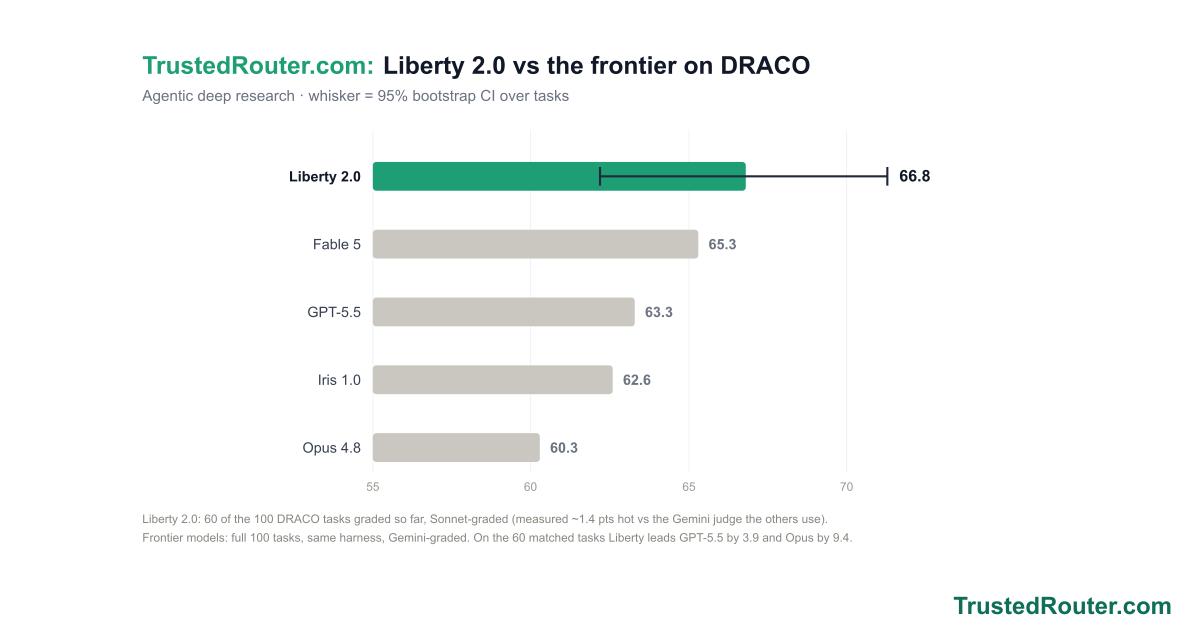
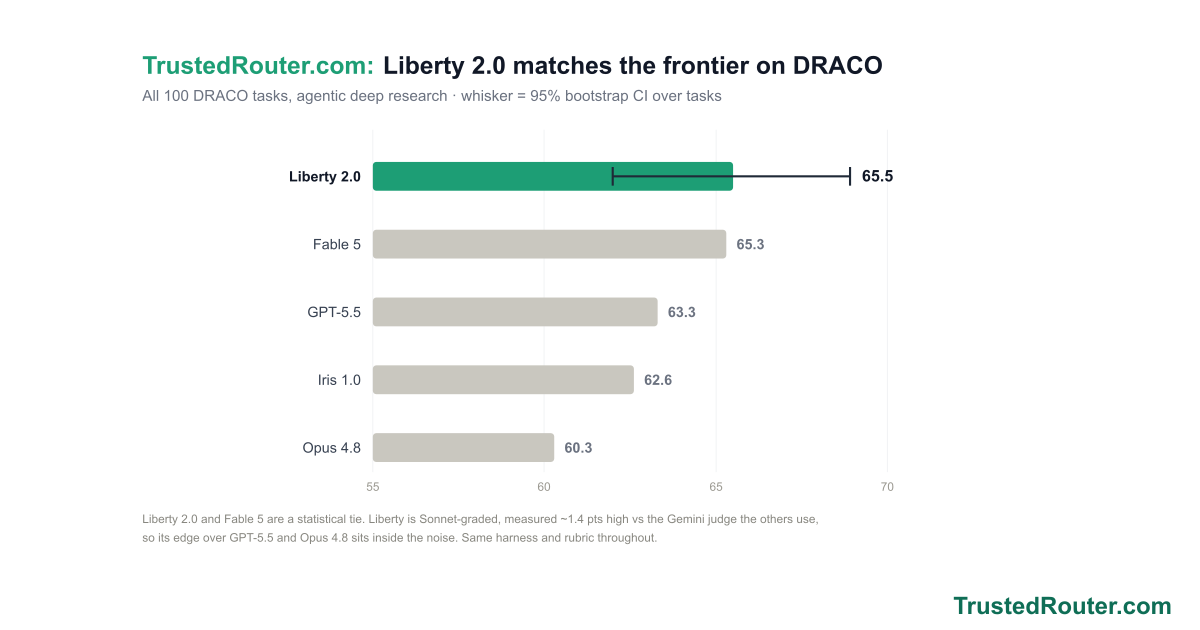
blog: Liberty 2.0 final DRACO result, all 100 tasks graded
65.5 [62.0, 68.9] with the full set graded. The score fell as the
Finance-heavy tail landed: 70.3 (20 tasks) -> 68.9 (52) -> 66.8 (60) ->
65.5 (100).

Claim corrected to match. Fable 5 scores 65.3, so it is a tie, not a
Liberty lead. GPT-5.5 63.3 and Opus 4.8 60.3 on the same tasks -- gaps of
2.2 and 5.2, smaller than the 3.9 and 9.4 published at 60 tasks, and
close enough to the measured +1.4 grader bias that the headline is now
"matches the frontier" rather than tops it. That is still the story worth
telling: an all-open-weights American model at frontier level, far cheaper.

Per-domain table rebuilt on all 100: wins 8 of 10, Medicine -3, Law even.

Methodology section extended with a second finding: regrading the same
answer can swing a task by 40+ points, because 7 of the 100 rubrics carry
one heavily weighted penalty (up to -500 against 133 positive), mostly in
medicine. Aggregates absorb it; six-task rows do not, and the post now
says so.

Chart and OG regenerated at 65.5 and visually verified.

diff --git a/src/trusted_router/content/blog.py b/src/trusted_router/content/blog.py
@@ -196,59 +196,60 @@ uv run --script tools/verify-attestation.py \
 <figure style="margin:0 0 32px">
 <svg xmlns="http://www.w3.org/2000/svg" viewBox="0 0 1200 630" width="100%" style="height:auto" font-family="Inter,Arial,sans-serif">
 <rect width="1200" height="630" fill="#ffffff"/>
-<text x="60" y="54" font-size="29" font-weight="700"><tspan fill="#1d9e75">TrustedRouter.com:</tspan><tspan fill="#111827" dx="10">Liberty 2.0 vs the frontier on DRACO</tspan></text>
-<text x="60" y="86" font-size="18" fill="#6b7280">Agentic deep research &#183; whisker = 95% bootstrap CI over tasks</text>
+<text x="60" y="54" font-size="29" font-weight="700"><tspan fill="#1d9e75">TrustedRouter.com:</tspan><tspan fill="#111827" dx="10">Liberty 2.0 matches the frontier on DRACO</tspan></text>
+<text x="60" y="86" font-size="18" fill="#6b7280">All 100 DRACO tasks, agentic deep research &#183; whisker = 95% bootstrap CI over tasks</text>
 <line x1="332" y1="120" x2="332" y2="524" stroke="#eef0f2"/>
 <text x="332" y="546" font-size="14" text-anchor="middle" fill="#9a9890">55</text>
-<line x1="518" y1="120" x2="518" y2="524" stroke="#eef0f2"/>
-<text x="518" y="546" font-size="14" text-anchor="middle" fill="#9a9890">60</text>
-<line x1="705" y1="120" x2="705" y2="524" stroke="#eef0f2"/>
-<text x="705" y="546" font-size="14" text-anchor="middle" fill="#9a9890">65</text>
-<line x1="891" y1="120" x2="891" y2="524" stroke="#eef0f2"/>
-<text x="891" y="546" font-size="14" text-anchor="middle" fill="#9a9890">70</text>
-<rect x="332" y="158" width="440" height="34" rx="4" fill="#1d9e75"/>
+<line x1="534" y1="120" x2="534" y2="524" stroke="#eef0f2"/>
+<text x="534" y="546" font-size="14" text-anchor="middle" fill="#9a9890">60</text>
+<line x1="737" y1="120" x2="737" y2="524" stroke="#eef0f2"/>
+<text x="737" y="546" font-size="14" text-anchor="middle" fill="#9a9890">65</text>
+<line x1="939" y1="120" x2="939" y2="524" stroke="#eef0f2"/>
+<text x="939" y="546" font-size="14" text-anchor="middle" fill="#9a9890">70</text>
+<rect x="332" y="158" width="425" height="34" rx="4" fill="#1d9e75"/>
 <text x="318" y="181" font-size="17" font-weight="700" text-anchor="end" fill="#111827">Liberty 2.0</text>
-<line x1="600" y1="175" x2="939" y2="175" stroke="#1f2937" stroke-width="2.5"/>
-<line x1="600" y1="164" x2="600" y2="186" stroke="#1f2937" stroke-width="2.5"/>
-<line x1="939" y1="164" x2="939" y2="186" stroke="#1f2937" stroke-width="2.5"/>
-<text x="953" y="181" font-size="19" font-weight="700" fill="#111827">66.8</text>
-<rect x="332" y="238" width="384" height="34" rx="4" fill="#c9c7bf"/>
+<line x1="615" y1="175" x2="895" y2="175" stroke="#1f2937" stroke-width="2.5"/>
+<line x1="615" y1="164" x2="615" y2="186" stroke="#1f2937" stroke-width="2.5"/>
+<line x1="895" y1="164" x2="895" y2="186" stroke="#1f2937" stroke-width="2.5"/>
+<text x="909" y="181" font-size="19" font-weight="700" fill="#111827">65.5</text>
+<rect x="332" y="238" width="417" height="34" rx="4" fill="#c9c7bf"/>
 <text x="318" y="261" font-size="17" font-weight="400" text-anchor="end" fill="#374151">Fable 5</text>
-<text x="728" y="261" font-size="17" font-weight="600" fill="#6b7280">65.3</text>
-<rect x="332" y="318" width="309" height="34" rx="4" fill="#c9c7bf"/>
+<text x="761" y="261" font-size="17" font-weight="600" fill="#6b7280">65.3</text>
+<rect x="332" y="318" width="336" height="34" rx="4" fill="#c9c7bf"/>
 <text x="318" y="341" font-size="17" font-weight="400" text-anchor="end" fill="#374151">GPT-5.5</text>
-<text x="653" y="341" font-size="17" font-weight="600" fill="#6b7280">63.3</text>
-<rect x="332" y="398" width="283" height="34" rx="4" fill="#c9c7bf"/>
+<text x="680" y="341" font-size="17" font-weight="600" fill="#6b7280">63.3</text>
+<rect x="332" y="398" width="308" height="34" rx="4" fill="#c9c7bf"/>
 <text x="318" y="421" font-size="17" font-weight="400" text-anchor="end" fill="#374151">Iris 1.0</text>
-<text x="627" y="421" font-size="17" font-weight="600" fill="#6b7280">62.6</text>
-<rect x="332" y="478" width="197" height="34" rx="4" fill="#c9c7bf"/>
+<text x="652" y="421" font-size="17" font-weight="600" fill="#6b7280">62.6</text>
+<rect x="332" y="478" width="214" height="34" rx="4" fill="#c9c7bf"/>
 <text x="318" y="501" font-size="17" font-weight="400" text-anchor="end" fill="#374151">Opus 4.8</text>
-<text x="541" y="501" font-size="17" font-weight="600" fill="#6b7280">60.3</text>
-<text x="60" y="584" font-size="14" fill="#888780">Liberty 2.0: 60 of the 100 DRACO tasks graded so far, Sonnet-graded (measured ~1.4 pts hot vs the Gemini judge the others use).</text>
-<text x="60" y="606" font-size="14" fill="#888780">Frontier models: full 100 tasks, same harness, Gemini-graded. On the 60 matched tasks Liberty leads GPT-5.5 by 3.9 and Opus by 9.4.</text>
+<text x="558" y="501" font-size="17" font-weight="600" fill="#6b7280">60.3</text>
+<text x="60" y="584" font-size="14" fill="#888780">Liberty 2.0 and Fable 5 are a statistical tie. Liberty is Sonnet-graded, measured ~1.4 pts high vs the Gemini judge the others use,</text>
+<text x="60" y="606" font-size="14" fill="#888780">so its edge over GPT-5.5 and Opus 4.8 sits inside the noise. Same harness and rubric throughout.</text>
 <text x="1140" y="624" text-anchor="end" font-size="18" font-weight="700" fill="#0f6e56">TrustedRouter.com</text></svg>
 </figure>
 <p>Today we're introducing Liberty 2.0 &#8212; one AI you call like any other model, built entirely from American open-source models and run only in the United States.</p>
-<p>On <a href="/blog/fusion-evals-open-source">DRACO</a>, the 100-task agentic deep-research benchmark, Liberty 2.0 scores <strong>66.8</strong> across the 60 tasks graded so far. On those same tasks it leads GPT-5.5 by 3.9 points and Claude Opus 4.8 by 9.4, and it sits level with Fable 5, the strongest single model in the comparison. An all-American, all-open-weights model, holding its own against the closed frontier on real research.</p>
+<p>On <a href="/blog/fusion-evals-open-source">DRACO</a>, the 100-task agentic deep-research benchmark, Liberty 2.0 scores <strong>65.5</strong> across all 100 tasks. Fable 5, the strongest single model in the comparison, scores 65.3 &#8212; a tie. GPT-5.5 scores 63.3 and Claude Opus 4.8 60.3 on the same tasks. An all-American, all-open-weights model performing at the level of the closed frontier, at a fraction of the cost.</p>
 <h3 style="font-size:22px;margin:36px 0 8px">Where Liberty 2.0 is strong, and where it trails</h3>
-<p>Broken out by task type, against the average of the two frontier solos on exactly the same tasks, Liberty 2.0 comes out ahead on 8 of the ten. Its margins are widest on research that means gathering many sources and reconciling them; it falls back to even on work that turns on exact recall.</p>
+<p>Broken out by task type, against the average of the two frontier solos on exactly the same tasks, Liberty 2.0 comes out ahead on 8 of the ten. The margins are widest on research that means gathering many sources and reconciling them, and it gives the lead back on work that turns on exact recall.</p>
 <div style="overflow-x:auto;margin:16px 0"><table style="border-collapse:collapse;font-size:15px;min-width:520px">
 <thead><tr><th style="text-align:left;padding:6px 12px;border-bottom:2px solid #d1d5db;font-size:14px">Task type</th><th style="text-align:right;padding:6px 12px;border-bottom:2px solid #d1d5db;font-size:14px">Tasks</th><th style="text-align:right;padding:6px 12px;border-bottom:2px solid #d1d5db;font-size:14px">Liberty 2.0</th><th style="text-align:right;padding:6px 12px;border-bottom:2px solid #d1d5db;font-size:14px">Frontier avg<br><span style="font-weight:400;color:#6b7280;font-size:12px">GPT-5.5 + Opus 4.8</span></th><th style="text-align:right;padding:6px 12px;border-bottom:2px solid #d1d5db;font-size:14px">&#916;</th></tr></thead><tbody>
-<tr><td style="text-align:left;padding:5px 12px;border-bottom:1px solid #eef0f2">Needle-in-Haystack</td><td style="text-align:right;padding:5px 12px;border-bottom:1px solid #eef0f2;color:#9a9890;font-size:13px">5</td><td style="text-align:right;padding:5px 12px;border-bottom:1px solid #eef0f2;background:#e1f5ee;font-weight:700">75</td><td style="text-align:right;padding:5px 12px;border-bottom:1px solid #eef0f2">58</td><td style="text-align:right;padding:5px 12px;border-bottom:1px solid #eef0f2;font-weight:700;color:#0f6e56">+17</td></tr>
-<tr><td style="text-align:left;padding:5px 12px;border-bottom:1px solid #eef0f2">Personalized Assistant</td><td style="text-align:right;padding:5px 12px;border-bottom:1px solid #eef0f2;color:#9a9890;font-size:13px">3</td><td style="text-align:right;padding:5px 12px;border-bottom:1px solid #eef0f2;background:#e1f5ee;font-weight:700">72</td><td style="text-align:right;padding:5px 12px;border-bottom:1px solid #eef0f2">59</td><td style="text-align:right;padding:5px 12px;border-bottom:1px solid #eef0f2;font-weight:700;color:#0f6e56">+13</td></tr>
-<tr><td style="text-align:left;padding:5px 12px;border-bottom:1px solid #eef0f2">Academic</td><td style="text-align:right;padding:5px 12px;border-bottom:1px solid #eef0f2;color:#9a9890;font-size:13px">6</td><td style="text-align:right;padding:5px 12px;border-bottom:1px solid #eef0f2;background:#e1f5ee;font-weight:700">86</td><td style="text-align:right;padding:5px 12px;border-bottom:1px solid #eef0f2">74</td><td style="text-align:right;padding:5px 12px;border-bottom:1px solid #eef0f2;font-weight:700;color:#0f6e56">+12</td></tr>
-<tr><td style="text-align:left;padding:5px 12px;border-bottom:1px solid #eef0f2">Shopping / Product</td><td style="text-align:right;padding:5px 12px;border-bottom:1px solid #eef0f2;color:#9a9890;font-size:13px">9</td><td style="text-align:right;padding:5px 12px;border-bottom:1px solid #eef0f2;background:#e1f5ee;font-weight:700">65</td><td style="text-align:right;padding:5px 12px;border-bottom:1px solid #eef0f2">55</td><td style="text-align:right;padding:5px 12px;border-bottom:1px solid #eef0f2;font-weight:700;color:#0f6e56">+10</td></tr>
-<tr><td style="text-align:left;padding:5px 12px;border-bottom:1px solid #eef0f2">Technology</td><td style="text-align:right;padding:5px 12px;border-bottom:1px solid #eef0f2;color:#9a9890;font-size:13px">7</td><td style="text-align:right;padding:5px 12px;border-bottom:1px solid #eef0f2;background:#e1f5ee;font-weight:700">60</td><td style="text-align:right;padding:5px 12px;border-bottom:1px solid #eef0f2">51</td><td style="text-align:right;padding:5px 12px;border-bottom:1px solid #eef0f2;font-weight:700;color:#0f6e56">+9</td></tr>
-<tr><td style="text-align:left;padding:5px 12px;border-bottom:1px solid #eef0f2">UX Design</td><td style="text-align:right;padding:5px 12px;border-bottom:1px solid #eef0f2;color:#9a9890;font-size:13px">5</td><td style="text-align:right;padding:5px 12px;border-bottom:1px solid #eef0f2;background:#e1f5ee;font-weight:700">63</td><td style="text-align:right;padding:5px 12px;border-bottom:1px solid #eef0f2">57</td><td style="text-align:right;padding:5px 12px;border-bottom:1px solid #eef0f2;font-weight:700;color:#0f6e56">+6</td></tr>
-<tr><td style="text-align:left;padding:5px 12px;border-bottom:1px solid #eef0f2">Law</td><td style="text-align:right;padding:5px 12px;border-bottom:1px solid #eef0f2;color:#9a9890;font-size:13px">3</td><td style="text-align:right;padding:5px 12px;border-bottom:1px solid #eef0f2;background:#e1f5ee;font-weight:700">86</td><td style="text-align:right;padding:5px 12px;border-bottom:1px solid #eef0f2">81</td><td style="text-align:right;padding:5px 12px;border-bottom:1px solid #eef0f2;font-weight:700;color:#0f6e56">+5</td></tr>
-<tr><td style="text-align:left;padding:5px 12px;border-bottom:1px solid #eef0f2">Finance</td><td style="text-align:right;padding:5px 12px;border-bottom:1px solid #eef0f2;color:#9a9890;font-size:13px">12</td><td style="text-align:right;padding:5px 12px;border-bottom:1px solid #eef0f2;background:#e1f5ee;font-weight:700">57</td><td style="text-align:right;padding:5px 12px;border-bottom:1px solid #eef0f2">55</td><td style="text-align:right;padding:5px 12px;border-bottom:1px solid #eef0f2;font-weight:700;color:#0f6e56">+2</td></tr>
-<tr><td style="text-align:left;padding:5px 12px;border-bottom:1px solid #eef0f2">General Knowledge</td><td style="text-align:right;padding:5px 12px;border-bottom:1px solid #eef0f2;color:#9a9890;font-size:13px">4</td><td style="text-align:right;padding:5px 12px;border-bottom:1px solid #eef0f2;background:#e1f5ee;font-weight:700">55</td><td style="text-align:right;padding:5px 12px;border-bottom:1px solid #eef0f2">56</td><td style="text-align:right;padding:5px 12px;border-bottom:1px solid #eef0f2;font-weight:700;color:#b91c1c">&#8722;1</td></tr>
-<tr><td style="text-align:left;padding:5px 12px;border-bottom:1px solid #eef0f2">Medicine</td><td style="text-align:right;padding:5px 12px;border-bottom:1px solid #eef0f2;color:#9a9890;font-size:13px">6</td><td style="text-align:right;padding:5px 12px;border-bottom:1px solid #eef0f2;background:#e1f5ee;font-weight:700">71</td><td style="text-align:right;padding:5px 12px;border-bottom:1px solid #eef0f2">72</td><td style="text-align:right;padding:5px 12px;border-bottom:1px solid #eef0f2;font-weight:700;color:#b91c1c">&#8722;1</td></tr>
+<tr><td style="text-align:left;padding:5px 12px;border-bottom:1px solid #eef0f2">Personalized Assistant</td><td style="text-align:right;padding:5px 12px;border-bottom:1px solid #eef0f2;color:#9a9890;font-size:13px">6</td><td style="text-align:right;padding:5px 12px;border-bottom:1px solid #eef0f2;background:#e1f5ee;font-weight:700">70</td><td style="text-align:right;padding:5px 12px;border-bottom:1px solid #eef0f2">59</td><td style="text-align:right;padding:5px 12px;border-bottom:1px solid #eef0f2;font-weight:700;color:#0f6e56">+11</td></tr>
+<tr><td style="text-align:left;padding:5px 12px;border-bottom:1px solid #eef0f2">UX Design</td><td style="text-align:right;padding:5px 12px;border-bottom:1px solid #eef0f2;color:#9a9890;font-size:13px">9</td><td style="text-align:right;padding:5px 12px;border-bottom:1px solid #eef0f2;background:#e1f5ee;font-weight:700">62</td><td style="text-align:right;padding:5px 12px;border-bottom:1px solid #eef0f2">55</td><td style="text-align:right;padding:5px 12px;border-bottom:1px solid #eef0f2;font-weight:700;color:#0f6e56">+7</td></tr>
+<tr><td style="text-align:left;padding:5px 12px;border-bottom:1px solid #eef0f2">Shopping / Product</td><td style="text-align:right;padding:5px 12px;border-bottom:1px solid #eef0f2;color:#9a9890;font-size:13px">16</td><td style="text-align:right;padding:5px 12px;border-bottom:1px solid #eef0f2;background:#e1f5ee;font-weight:700">63</td><td style="text-align:right;padding:5px 12px;border-bottom:1px solid #eef0f2">57</td><td style="text-align:right;padding:5px 12px;border-bottom:1px solid #eef0f2;font-weight:700;color:#0f6e56">+6</td></tr>
+<tr><td style="text-align:left;padding:5px 12px;border-bottom:1px solid #eef0f2">Academic</td><td style="text-align:right;padding:5px 12px;border-bottom:1px solid #eef0f2;color:#9a9890;font-size:13px">12</td><td style="text-align:right;padding:5px 12px;border-bottom:1px solid #eef0f2;background:#e1f5ee;font-weight:700">78</td><td style="text-align:right;padding:5px 12px;border-bottom:1px solid #eef0f2">72</td><td style="text-align:right;padding:5px 12px;border-bottom:1px solid #eef0f2;font-weight:700;color:#0f6e56">+6</td></tr>
+<tr><td style="text-align:left;padding:5px 12px;border-bottom:1px solid #eef0f2">Needle-in-Haystack</td><td style="text-align:right;padding:5px 12px;border-bottom:1px solid #eef0f2;color:#9a9890;font-size:13px">6</td><td style="text-align:right;padding:5px 12px;border-bottom:1px solid #eef0f2;background:#e1f5ee;font-weight:700">64</td><td style="text-align:right;padding:5px 12px;border-bottom:1px solid #eef0f2">60</td><td style="text-align:right;padding:5px 12px;border-bottom:1px solid #eef0f2;font-weight:700;color:#0f6e56">+4</td></tr>
+<tr><td style="text-align:left;padding:5px 12px;border-bottom:1px solid #eef0f2">Technology</td><td style="text-align:right;padding:5px 12px;border-bottom:1px solid #eef0f2;color:#9a9890;font-size:13px">10</td><td style="text-align:right;padding:5px 12px;border-bottom:1px solid #eef0f2;background:#e1f5ee;font-weight:700">57</td><td style="text-align:right;padding:5px 12px;border-bottom:1px solid #eef0f2">55</td><td style="text-align:right;padding:5px 12px;border-bottom:1px solid #eef0f2;font-weight:700;color:#0f6e56">+2</td></tr>
+<tr><td style="text-align:left;padding:5px 12px;border-bottom:1px solid #eef0f2">Finance</td><td style="text-align:right;padding:5px 12px;border-bottom:1px solid #eef0f2;color:#9a9890;font-size:13px">19</td><td style="text-align:right;padding:5px 12px;border-bottom:1px solid #eef0f2;background:#e1f5ee;font-weight:700">60</td><td style="text-align:right;padding:5px 12px;border-bottom:1px solid #eef0f2">58</td><td style="text-align:right;padding:5px 12px;border-bottom:1px solid #eef0f2;font-weight:700;color:#0f6e56">+2</td></tr>
+<tr><td style="text-align:left;padding:5px 12px;border-bottom:1px solid #eef0f2">General Knowledge</td><td style="text-align:right;padding:5px 12px;border-bottom:1px solid #eef0f2;color:#9a9890;font-size:13px">9</td><td style="text-align:right;padding:5px 12px;border-bottom:1px solid #eef0f2;background:#e1f5ee;font-weight:700">62</td><td style="text-align:right;padding:5px 12px;border-bottom:1px solid #eef0f2">60</td><td style="text-align:right;padding:5px 12px;border-bottom:1px solid #eef0f2;font-weight:700;color:#0f6e56">+2</td></tr>
+<tr><td style="text-align:left;padding:5px 12px;border-bottom:1px solid #eef0f2">Law</td><td style="text-align:right;padding:5px 12px;border-bottom:1px solid #eef0f2;color:#9a9890;font-size:13px">6</td><td style="text-align:right;padding:5px 12px;border-bottom:1px solid #eef0f2;background:#e1f5ee;font-weight:700">85</td><td style="text-align:right;padding:5px 12px;border-bottom:1px solid #eef0f2">85</td><td style="text-align:right;padding:5px 12px;border-bottom:1px solid #eef0f2;font-weight:700;color:#6b7280">0</td></tr>
+<tr><td style="text-align:left;padding:5px 12px;border-bottom:1px solid #eef0f2">Medicine</td><td style="text-align:right;padding:5px 12px;border-bottom:1px solid #eef0f2;color:#9a9890;font-size:13px">6</td><td style="text-align:right;padding:5px 12px;border-bottom:1px solid #eef0f2;background:#e1f5ee;font-weight:700">69</td><td style="text-align:right;padding:5px 12px;border-bottom:1px solid #eef0f2">72</td><td style="text-align:right;padding:5px 12px;border-bottom:1px solid #eef0f2;font-weight:700;color:#b91c1c">&#8722;3</td></tr>
 </tbody></table></div>
-<p style="font-size:13px;color:#6b7280">Across all 60 graded tasks: Liberty 2.0 66.8, frontier average 60.2. Several task types rest on a handful of tasks, so read the pattern rather than any single row.</p>
-<p>Needle-in-a-haystack retrieval, assistant work, academic literature reviews, and shopping comparisons are where the open panel builds its lead, running ten to seventeen points clear of the frontier solos. Finance, general knowledge, and medicine are the other side, where the frontier models draw level. Combining models pays most when an answer has to be assembled from many sources, and least when it hinges on one hard fact.</p>
-<h3 style="font-size:22px;margin:36px 0 8px">How we grade, and how we checked it</h3>
-<p>Every answer is scored criterion by criterion against a rubric the model never sees, roughly forty checks per task. Liberty is scored by a Claude Sonnet judge; the frontier models were scored by a Gemini judge. To find out whether that favours us, we re-graded GPT-5.5's own answers through our judge and compared them to its Gemini scores on the same tasks. Our judge runs about 1.4 points high, which is inside the margin of error and smaller than the gaps above. Individual task scores move by about seven points between judges, so the aggregate is worth trusting and any single row is not. The comparison script and the per-task numbers are public in the benchmark repo.</p>
+<p style="font-size:13px;color:#6b7280">Across all 99 tasks: Liberty 2.0 65.5, frontier average 61.8.</p>
+<p>Assistant work, UX research, shopping comparisons, and academic literature reviews are where the open panel builds its lead. Medicine is the one type where the frontier models finish ahead, and Law is a dead heat. Combining models pays most when an answer has to be assembled from many sources, and least when it hinges on one hard fact.</p>
+<h3 style="font-size:22px;margin:36px 0 8px">How we grade, and what we found checking it</h3>
+<p>Every answer is scored criterion by criterion against a rubric the model never sees, roughly forty checks per task. Liberty is scored by a Claude Sonnet judge; the frontier models were scored by a Gemini judge. To find out whether that favours us, we re-graded GPT-5.5's own answers through our judge and compared them to its Gemini scores on the same tasks. Our judge runs about 1.4 points high. That is small next to the gaps in the chart, and it is the reason we describe Liberty as matching the frontier rather than beating it.</p>
+<p>Grading the same answer twice can also produce different scores, occasionally very different ones. A few DRACO rubrics carry a single heavily weighted penalty, and one borderline call on it can move a task by forty points or more. Seven of the hundred tasks are built that way, most of them in medicine, where the penalties cover unsafe advice. Averages over a hundred tasks absorb that. Individual rows, especially the ones resting on six tasks, do not, so read the table as a pattern rather than a scoreboard. The grading code, the per-task scores, and the judge comparison are public in the benchmark repo.</p>
 <p>Liberty 2.0 brings together open-weights models from four American labs &#8212; NVIDIA, Google, OpenAI, and Thinking Machines &#8212; and combines their answers into a single response. You get the strengths of all of them behind one model name.</p>
 <figure style="margin:0 0 32px">
 <svg xmlns="http://www.w3.org/2000/svg" viewBox="0 0 1200 630" width="100%" style="height:auto" font-family="Inter,Arial,sans-serif">
